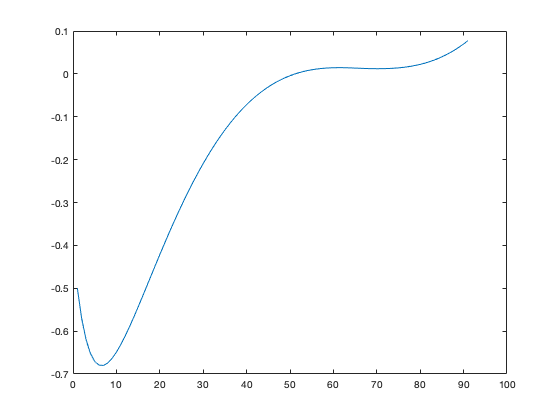
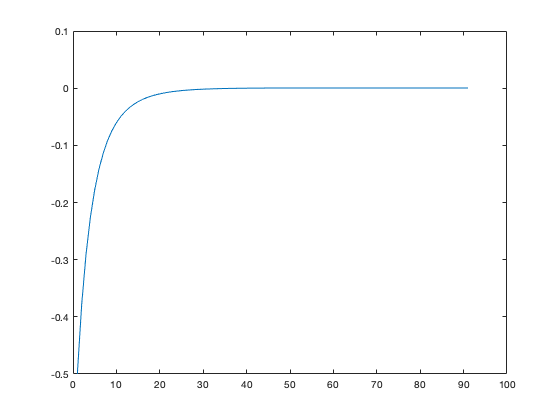
Corrected question2 calculating the difference

diff --git a/diffeq_hw/Euler.m b/diffeq_hw/Euler.m
@@ -8,8 +8,8 @@ y(1)=y0;
 n=length(x);
 
 for ii=1:(n-1)
-  %y(ii+1)=y(ii)+h*MyFunction(x(ii),y(ii)); %f1
-  y(ii+1)=y(ii)+h*MyFunction2(x(ii),y(ii)); %f2
+  y(ii+1)=y(ii)+h*MyFunction(x(ii),y(ii)); %f1
+  %y(ii+1)=y(ii)+h*MyFunction2(x(ii),y(ii)); %f2
 end
 plot(x,y);
 end
